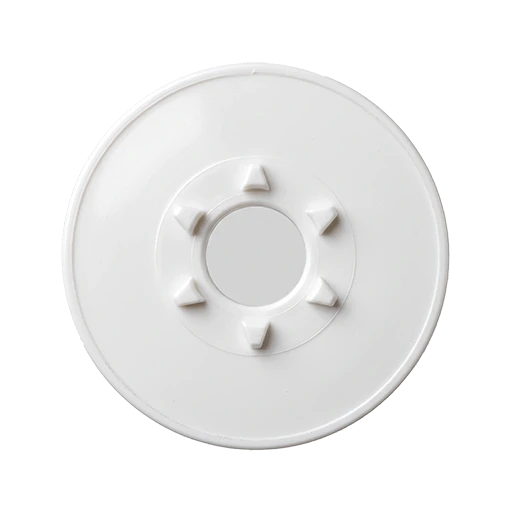
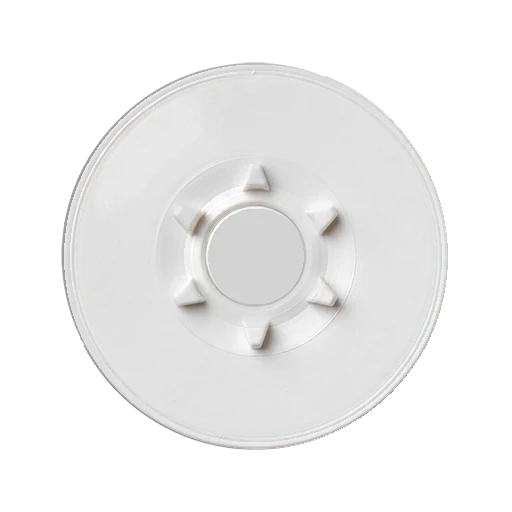
fix: 카세트 이미지 교체

diff --git a/tools/check-assets.py b/tools/check-assets.py
@@ -59,7 +59,7 @@ def main():
     lid = check_file(get(data, "deck.lid.image"), "deck.lid.image")
     for key in ("rew", "play", "stop", "ff"):
         check_file(get(data, f"keys.files.{key}"), f"keys.files.{key}")
-    check_file(get(data, "cassette.image"), "cassette.image")
+    shell = check_file(get(data, "cassette.image"), "cassette.image")
     check_file(get(data, "cassette.label"), "cassette.label")
     check_file(get(data, "headphones.image"), "headphones.image")
     for key, value in (get(data, "optional") or {}).items():
@@ -91,17 +91,38 @@ def main():
             if max(abs(dx), abs(dy)) > HUB_TOLERANCE:
                 warnings.append(f"{side} 허브가 스핀들에서 ({dx:+.0f}, {dy:+.0f})px 어긋납니다. calibrate의 '허브에 맞추기'를 눌러 주세요")
 
-    # 덮개 유리창 투명 여부(카세트 칸 가운데를 본다)
+    # 이미지 투명 영역 검사(Pillow 필요)
     bay = get(data, "deck.bay")
-    if lid and bay:
-        try:
-            from PIL import Image
-            alpha = Image.open(lid).convert("RGBA").getchannel("A")
-            cx, cy = bay[0] + bay[2] // 2, bay[1] + bay[3] // 2
-            if alpha.getpixel((cx, cy)) >= 250:
-                warnings.append("deck-lid 유리창이 불투명합니다. 덮개를 닫으면 카세트가 보이지 않습니다")
-        except ImportError:
-            warnings.append("Pillow가 없어 덮개 유리창 검사를 건너뜁니다")
+    try:
+        from PIL import Image
+    except ImportError:
+        Image = None
+        warnings.append("Pillow가 없어 덮개·셸 투명 영역 검사를 건너뜁니다")
+
+    # 덮개 유리창 투명 여부(카세트 칸 가운데를 본다)
+    if Image and lid and bay:
+        alpha = Image.open(lid).convert("RGBA").getchannel("A")
+        cx, cy = bay[0] + bay[2] // 2, bay[1] + bay[3] // 2
+        if alpha.getpixel((cx, cy)) >= 250:
+            warnings.append("deck-lid 유리창이 불투명합니다. 덮개를 닫으면 카세트가 보이지 않습니다")
+
+    # 셸의 허브 구멍·창 투명 여부, 몸체 비율
+    if Image and shell and not errors:
+        alpha = Image.open(shell).convert("RGBA").getchannel("A")
+        spots = {f"{side} 허브 구멍": get(data, f"cassette.hubs.{side}")[:2] for side in ("left", "right")}
+        wx, wy, ww, wh = get(data, "cassette.window")
+        spots["창"] = (wx + ww // 2, wy + wh // 2)
+        opaque = [name for name, (x, y) in spots.items() if alpha.getpixel((int(x), int(y))) >= 250]
+        if opaque:
+            warnings.append(f"cassette-shell의 {', '.join(opaque)}이(가) 불투명합니다. "
+                            "그 아래에서 도는 허브와 감긴 테이프가 보이지 않으니 투명하게 오려 내 주세요")
+        box = alpha.point(lambda v: 255 if v > 10 else 0).getbbox()
+        if box and bay:
+            body = (box[2] - box[0]) / (box[3] - box[1])
+            slot = bay[2] / bay[3]
+            if abs(body - slot) / slot > 0.05:
+                warnings.append(f"cassette-shell 몸체 비율 {body:.2f}:1이 데크 칸 비율 {slot:.2f}:1과 다릅니다. "
+                                "칸보다 큰 부분은 잘려 보입니다(셸을 늘이거나 누르지 말고 칸 비율로 다시 만드는 것을 권합니다)")
 
     for msg in errors:
         print("오류:", msg)

diff --git a/design/image-spec.md b/design/image-spec.md
@@ -94,7 +94,7 @@ AI로 생성할 이미지는 필수 6장(IMG-01·02·04·05·06·08)입니다. I
 | IMG-01 | `deck/deck-bay@2x.webp` | 덮개가 없는 데크 본체 정면. 위쪽은 빈 카세트 칸(헤드·캐스턴·핀치롤러·릴 스핀들 2개), 아래쪽은 빈 LCD 창과 키가 들어갈 긴 홈 하나 | 4:3 | 2048×1536 | 본체 바깥 | 새로 생성 | 필수 |
 | IMG-02 | `_work/deck-closed.png` | IMG-01과 같은 본체에 덮개(연기색 유리창 달린 테두리)를 닫은 모습. 앱에는 쓰지 않는 작업용 | 4:3 | — | — | IMG-01 편집 | 필수 |
 | IMG-03 | `deck/deck-lid@2x.webp` | IMG-02에서 덮개 테두리만 오려낸 것. IMG-01과 같은 캔버스 크기·위치 | — | 2048×1536 | 덮개 바깥, 유리창 | IMG-02 오려내기 | 필수 |
-| IMG-04 | `cassette/cassette-shell@2x.webp` | 카세트테이프 정면. 라벨 자리는 매끈한 빈 면, 가운데 투명창, 허브 구멍 2개, 나사 5개, 아래 사다리꼴 테이프 노출부 | 3:2 | 1260×800 | 바깥, 창, 허브 구멍 | 새로 생성 | 필수 |
+| IMG-04 | `cassette/cassette-shell@2x.webp` | 카세트테이프 정면. 라벨 자리는 매끈한 빈 면, 가운데 투명창, 허브 구멍 2개, 나사 5개, 아래 사다리꼴 테이프 노출부. **몸체 비율은 데크 칸(`deck.bay`)과 같은 약 1.8:1**(아래 "IMG-04-wide" 참고) | 16:9 | 몸체 폭 약 1260 | 바깥, **창, 허브 구멍(반드시)** | 새로 생성(IMG-04-wide) | 필수 |
 | IMG-05 | `cassette/cassette-label@2x.webp` | 아무것도 안 쓴 아이보리 라벨 종이, 연한 가로줄 3개, 종이 결 | 21:9 | 1110×240 | 바깥 | 새로 생성 | 필수 |
 | IMG-06 | `deck/key-*@2x.webp`(4개로 자동 분할) | 기호가 없는 키 4개가 한 줄로 놓인 모습, 모두 올라온 상태. 두 번째만 주황(PLAY), 나머지는 그래파이트. 위·아래 여백이 넓어야 함 | 21:9 | 키마다 약 400×630 | 바깥, 그림자 | 새로 생성 → prep.py 자동 자르기 | 필수 |
 | IMG-08 | `deck/headphones@2x.webp` | 은색 헤드밴드에 주황 폼 이어패드 2개가 달린 헤드폰 정면 | 3:2 | 1200×800 | 바깥 | 새로 생성 | 필수 |
@@ -162,6 +162,26 @@ Studio product photograph, straight-on front orthographic view with zero tilt, l
 Use the attached image only as a reference for materials, color palette, lighting direction and camera angle. Do not copy its shape and do not include the attached object in the result. Create a new, separate image of: a standard compact audio cassette tape seen exactly from the front, lying perfectly flat. The shell is dark brownish-black matte plastic (#24221F) with five small recessed screws. The upper area has a smooth, flat, slightly recessed empty rectangle where a label would go, with no paper label on it. In the center there is a clear rectangular window, and two round hub holes show two white plastic reel hubs with only a very thin ring of brown tape on each, as if nearly empty. At the bottom center there is a trapezoid ridge with two small round holes and a strip of exposed brown tape. True cassette proportions of about 100 by 64 millimeters. 3:2 aspect ratio.
 Studio product photograph, straight-on front orthographic view with zero tilt, long telephoto lens so there is no perspective distortion, everything in sharp focus. Soft softbox key light from the top-left at 45 degrees with a faint fill light from the right. Plain flat light-grey background (#E6E6E6) with no floor shadow and no reflection. The object is centered and fills only about 70 percent of the frame, leaving generous empty margin on every side. Photorealistic materials, subtle micro-scratches, no logos, no text, no letters, no numbers, no brand marks, no hands, no props.
 ```
+
+### IMG-04-wide 카세트 셸(데크 칸 비율에 맞춘 판, 권장)
+
+처음 만든 셸은 실제 카세트 비율(약 1.57:1)이라, 그보다 납작한 데크 칸(약 1.8:1)에 맞추려고 세로로 누르면 허브 구멍이 타원이 됩니다. 그래서 **처음부터 칸 비율로 그리게** 하고, 창과 허브 구멍은 **비어서 배경이 비치게** 그리게 해 오려내기 쉽게 합니다. `tools/prompts.json`의 `IMG-04-wide`이며, 지난번 AI 셸을 참고 이미지로 붙여 재질과 색을 맞춥니다.
+
+```bash
+python3 tools/gen.py IMG-04-wide --ref assets/cassette/cassette-shell-backup1.webp --count 3
+```
+
+| 조건 | 값 | 이유 |
+| --- | --- | --- |
+| 몸체 비율 | 가로 1.8 : 세로 1 | 데크 칸 `deck.bay`(1112×617)와 같은 비율. 누르거나 늘이지 않아도 칸에 맞는다 |
+| 허브 구멍 중심 | 몸체 폭의 28.5%·71.5%, 높이의 약 46% | 몸체가 칸 폭에 맞을 때 데크 스핀들 위에 온다(스핀들 간격 = 칸 폭의 43.1%) |
+| 허브 구멍 모양 | 크기가 같은 정원 | 코드가 그리는 허브·감긴 테이프는 원이라, 구멍도 원이어야 테두리와 맞는다 |
+| 창·허브 구멍 속 | 비어 있고 배경 회색이 비침 | 배경을 지울 때 함께 지워져 투명해진다 |
+
+확인할 점:
+- 허브 구멍이 타원이거나 안에 릴이 그려져 나오면 `FIX-holes`(편집)로 고칩니다. AI가 위치를 정확히 맞추지 못해도 calibrate의 "허브에 맞추기"가 크기와 위치를 맞춥니다.
+- 오려낸 뒤 **창과 허브 구멍이 완전히 투명(알파 0)**해야 합니다. 불투명하면 그 아래에서 도는 허브와 감긴 테이프가 보이지 않습니다. `python tools/check-assets.py`가 이를 검사합니다.
+- 새 셸을 넣은 뒤에는 calibrate의 카세트 탭에서 `labelArea`·`window`·`hubs`·`packMaxRadius`를 다시 표시하고, 합성 확인 탭에서 "허브에 맞추기"를 누릅니다. 코드는 고치지 않아도 됩니다.
 
 ### IMG-05 빈 라벨 종이
 
@@ -296,7 +316,7 @@ Studio product photograph, straight-on front orthographic view with zero tilt, l
 2. **2배 확대**: Upscayl에서 배율 2배, 출력 PNG로 확대합니다. IMG-01과 IMG-02는 같은 모델·같은 설정으로 확대해야 픽셀 위치가 맞습니다.
 3. **배경 제거**: 자동 배경 제거는 은색 테두리의 광택을 배경으로 착각해 지워 버립니다. 데크 본체·카세트·라벨처럼 모양이 둥근 사각형인 물체는 Photoshop의 펜 도구나 모서리가 둥근 사각형 도구로 윤곽을 따고, 선택 영역으로 바꿔 레이어 마스크를 만듭니다(삭제 대신 마스크). 가장자리는 마스크 속성에서 페더 0.5~1px로 다듬습니다. 헤드폰처럼 곡선이 많은 물체는 ‘피사체 선택’ 후 ‘선택 및 마스크’로 손봐도 됩니다. 지운 뒤에는 어두운 색(#0D0D0E) 레이어를 밑에 깔아 테두리 광택이 남아 있는지 확인합니다. 키(IMG-06)는 배경을 지우지 않아도 prep.py가 배경과 그림자까지 함께 처리합니다. 워터마크는 배경 위에 있으므로 이때 함께 사라집니다.
 4. **덮개 오려내기(IMG-03)**: IMG-02를 열고, 덮개 테두리 바깥을 모두 지웁니다. 이어서 유리창 안쪽을 사각형 선택으로 지워 투명하게 만듭니다. **캔버스는 자르지 않고** IMG-01과 같은 2048×1536으로 둡니다.
-5. **카세트 오려내기(IMG-04)**: 가운데 창은 사각형 선택, 허브 구멍 2개는 원형 선택(Shift를 누른 채 끌어 정원)으로 지웁니다. 두 구멍의 중심 좌표를 기록합니다(7장).
+5. **카세트 오려내기(IMG-04)**: 가운데 창은 사각형 선택, 허브 구멍 2개는 원형 선택(Shift를 누른 채 끌어 정원)으로 지웁니다. IMG-04-wide처럼 창·구멍 속이 배경 회색이면 배경을 지울 때 함께 지워지므로, 남은 부분만 다듬습니다. 두 구멍의 중심 좌표를 기록합니다(7장). **셸을 세로나 가로로 늘이거나 누르지 않습니다.** 비율이 칸과 다르면 다시 생성합니다(누르면 허브 구멍이 타원이 됩니다).
 6. **정렬 검사**: IMG-01 위에 IMG-03을 올리고 혼합 모드를 "차이"로 바꿉니다. 덮개 경첩과 본체 가장자리가 거의 검게 보여야 합니다. 어긋나면 이동 도구로 맞추거나 IMG-02를 다시 생성합니다.
 7. **자르기**: 데크 레이어(IMG-01·03)를 빼고, 4장 표의 최종 크기로 자릅니다. 키는 직접 자르지 않고 아래 ‘키 자동 자르기’로 처리합니다.
 8. **색 보정**: 스포이드로 PLAY 키와 헤드폰 폼을 찍어 보고, 서로 다르면 색조·채도로 #F2772A 근처에 맞춥니다.
